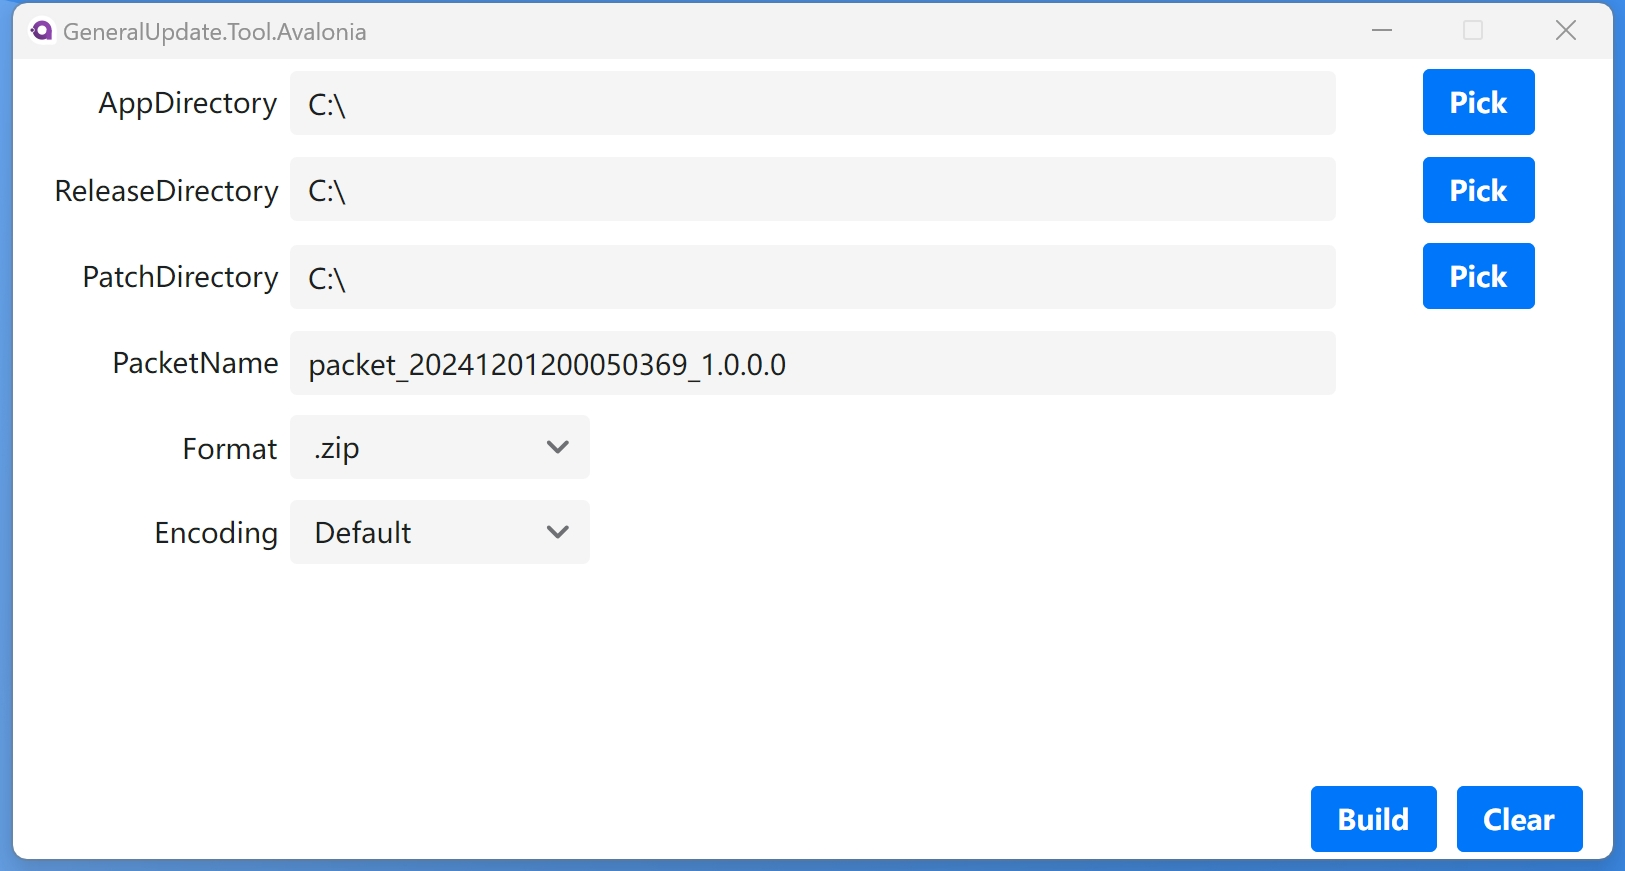
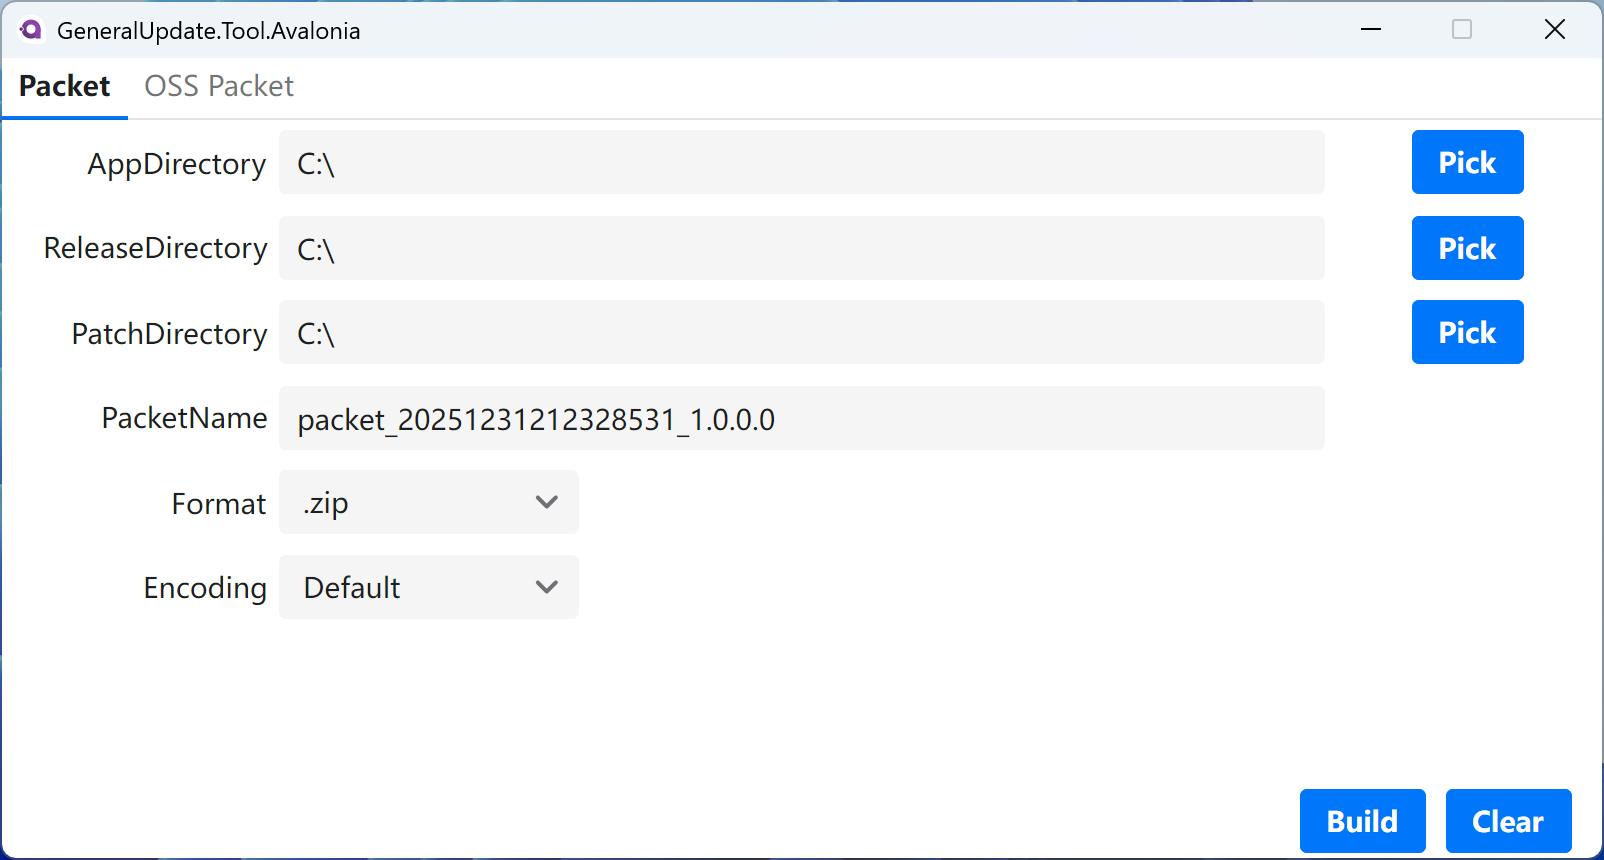
update packet tool md

diff --git a/website/i18n/zh-Hans/docusaurus-plugin-content-docs/current/doc/GeneralUpdate.PacketTool.md b/website/i18n/zh-Hans/docusaurus-plugin-content-docs/current/doc/GeneralUpdate.PacketTool.md
@@ -4,19 +4,24 @@ sidebar_position: 11
 
 ### 简介
 
-![](imgs\tool.png)
-
-工具使用Avalonia进行开发，只支持Windows / Linux / Mac  桌面端使用。
+工具使用Avalonia进行开发，支持Windows / Linux / Mac  桌面端使用。
 
 | 仓库地址                                              |
 | ----------------------------------------------------- |
 | https://github.com/GeneralLibrary/GeneralUpdate.Tools |
 
-| 功能           | 支持 | 备注                                                         |
-| -------------- | ---- | ------------------------------------------------------------ |
-| 差分更新包生成 | 是   | 根据上一个版本和当前版本进行对比，找出需要更新的文件或新添加、删除文件。 |
+| 功能            | 支持 | 备注                                                         |
+| --------------- | ---- | ------------------------------------------------------------ |
+| 构建补丁包      | 是   | 根据上一个版本和当前版本进行对比，找出需要更新的文件或新添加、删除文件。 |
+| 构建OSS版本配置 | 是   | 便捷生成OSS版本配置文件。                                    |
+
+![](imgs\tool.png)
+
+![](imgs\tool2.png)
 
 #### 说明
+
+**构建补丁包**
 
 | 名称        | 备注                                                         |
 | ----------- | ------------------------------------------------------------ |
@@ -25,3 +30,20 @@ sidebar_position: 11
 | Patch path  | 表示最终生成更新补丁包的路径。                               |
 | Build       | 通过递归比对Source path和Target path文件夹下所有的工程文件（DLL，exe...等），通过二进制差分检查、增量检查分析出需要更新的文件列表按照文件夹结构，打包更新包。 |
 | Clear       | 清除当前输入的内容。                                         |
+
+
+
+**构建OSS版本配置**
+
+| 名称              | 备注                                     |
+| ----------------- | ---------------------------------------- |
+| Release date time | 发布时间。                               |
+| PacketName        | 更新包名称。                             |
+| Hash              | 更新包哈希值。                           |
+| Version           | 更新包版本号。                           |
+| Download address  | 更新包下载地址。                         |
+| Get hash          | 获取更新包哈希值功能。                   |
+| Append            | 在已有版本信息后继续追加新的更新信息。   |
+| Clear             | 清空所有已填写的内容。                   |
+| Copy              | 拷贝已生成的内容到剪切板。               |
+| Build             | 生成OSS版本配置文件（.json）到本地磁盘。 |
